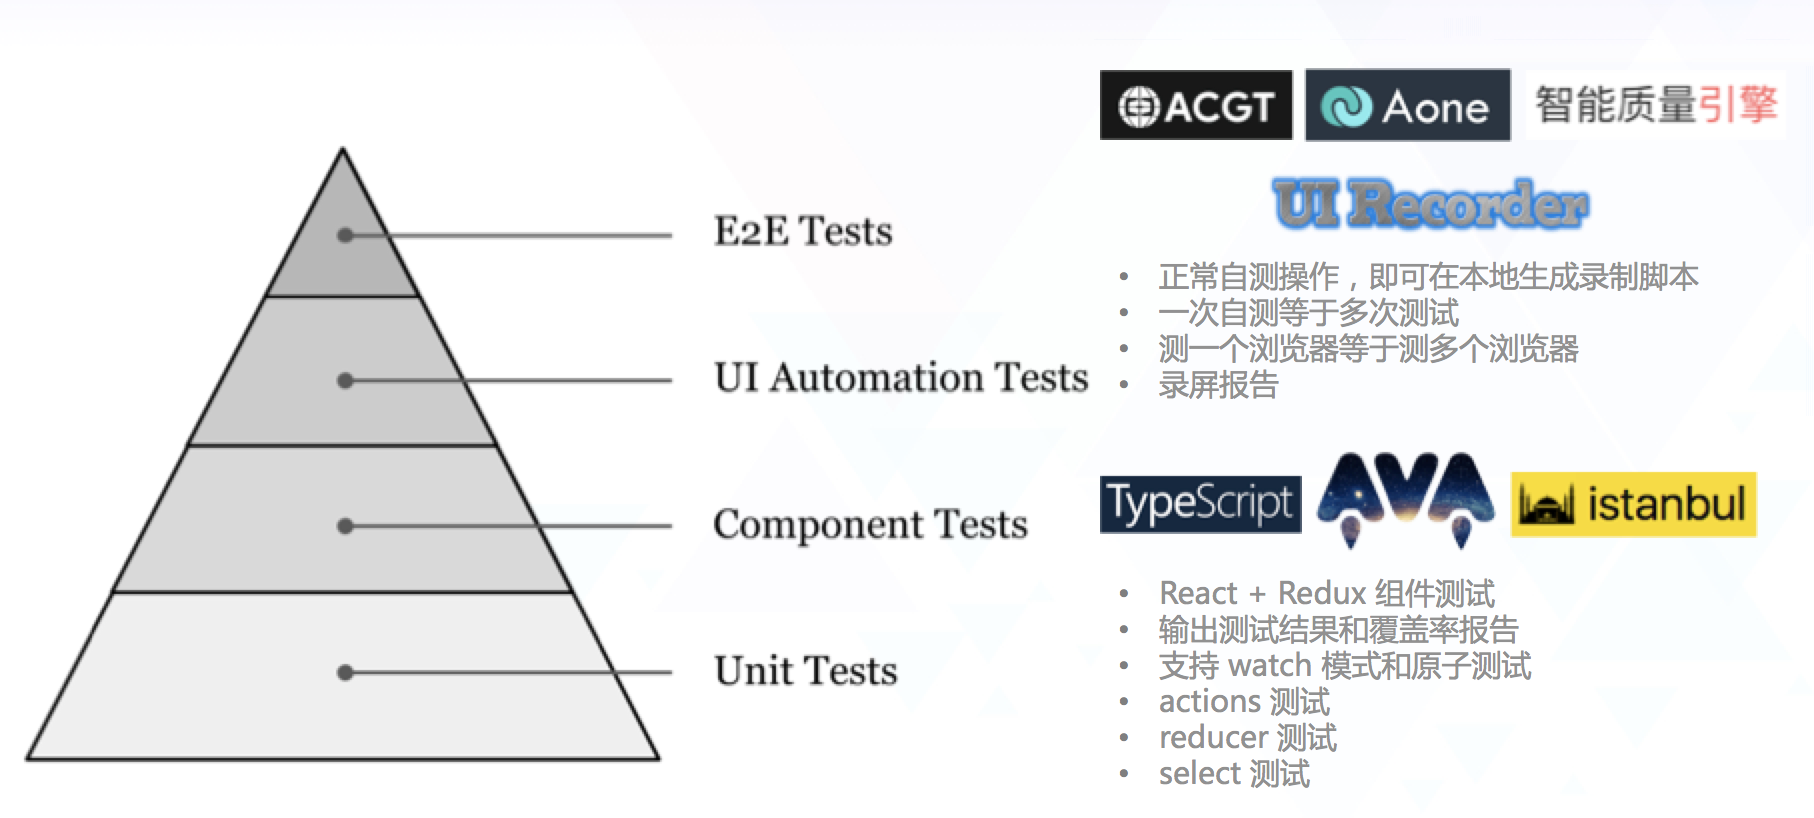
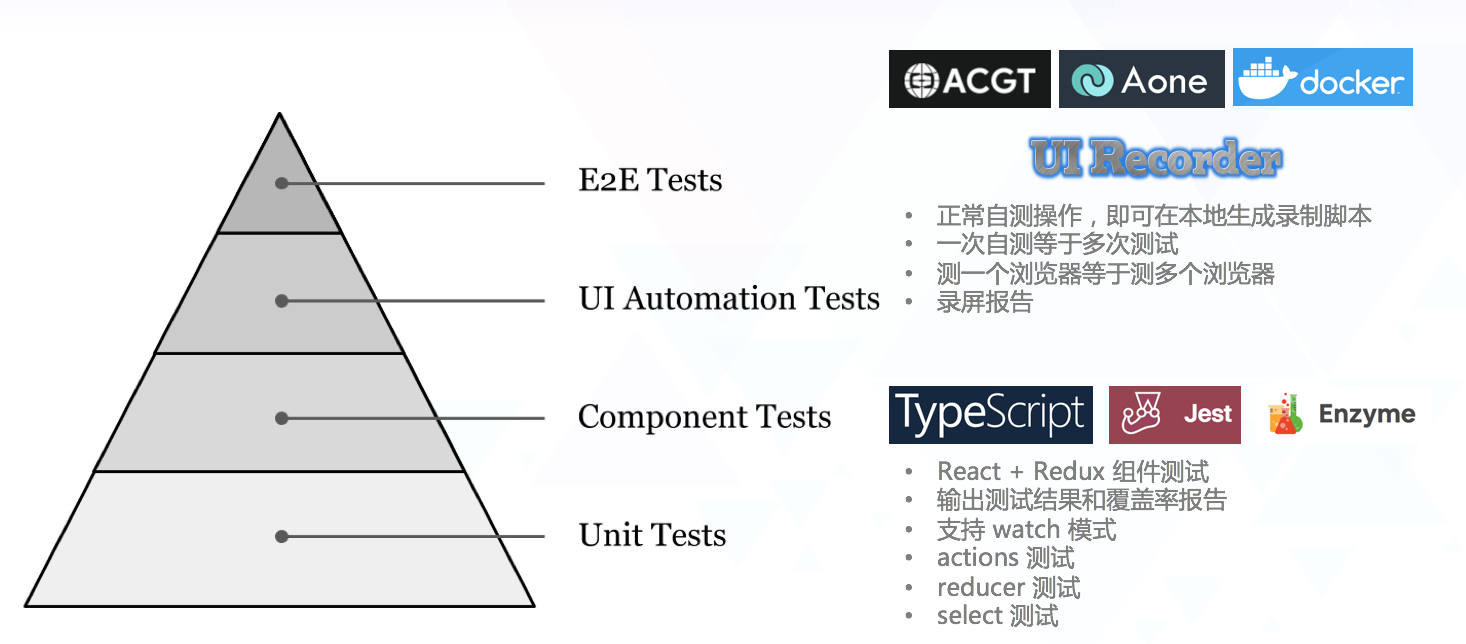
* Update assets

diff --git a/README.md b/README.md
@@ -9,9 +9,9 @@
 
 一个 React Redux 项目的模版项目。
 
-- 采用 `TypeScript + Scss/Less + React + Redux +  React Dom + React Router + React Thunk` 技术栈
-- 代码静态审查：husky + lint-staged + tslint + prettier + stylelint + imagemin-lint-staged
-- 测试包括：单元测试、覆盖率测试、接入集成测试服务、e2e 测试和 watch 模式。husky + lint-staged + jest
+- 采用 `TypeScript + Scss/Less + React + Redux +  React Dom + React Router + React Thunk` 技术栈；
+- 代码静态审查：husky + lint-staged + tslint + prettier + stylelint + imagemin-lint-staged；
+- 测试包括：单元测试、覆盖率测试、接入集成测试服务、e2e 测试和 watch 模式，husky + lint-staged + jest。
 
 ### 代码静态审查
 
@@ -68,19 +68,18 @@ npx stylelint -s scss --fix --stdin-filename ./(src|docs)/**/*.scss
 
 本项目采用的自动化测试技术方案
 
-1. React Redux 测试：typescript + Jest + enzyme(sinon、redux-mock-store) 组合
+1. React Redux 测试：typescript + Jest + enzyme 组合
 2. 集成测试： [UI Recorder](https://github.com/alibaba/uirecorder)
 
 
 ### 组件：React  + Redux
 
-支持 watch 模式
-
-1. actions 测试
-2. reducer 测试
-3. select 测试
-4. React + Redux 测试
-5. 覆盖率和输出报告
+1. 支持 watch 模式
+2. actions 测试
+3. reducer 测试
+4. select 测试
+5. React + Redux 测试
+6. 覆盖率和输出报告
 
 ### E2E 测试
 
@@ -90,13 +89,13 @@ npx stylelint -s scss --fix --stdin-filename ./(src|docs)/**/*.scss
 2. 测试脚本：测试代码的 Github 仓库
 3. 持续集成（CI）服务、用例、测试计划、任务分派和缺陷管理：Aone
 4. 全球化（G11N）自动测试报告：ACGT
-5. 业务异常报告：智能质量引擎
+5. 容器化： Docker
 
 ## 对比的一些工具
 
-- AVA： 相对于 Mocha 执行更快，测试环境隔离、支持原子测试；相对于 Jest 组合更加灵活；
-- Mocha + Chai：相对较为成熟；
-- Jest：[Create React App](https://github.com/facebookincubator/create-react-app) 、 [Microsoft/TypeScript-React-Starter](Microsoft/TypeScript-React-Starter) 和 [Ant Design](https://github.com/ant-design/ant-design-pro) 中推荐方案，内置断言、测试覆盖率工具，是个一体化方案、开箱即用。提供测试环境Dom API支持、合理的默认值、预处理代码和默认执行并行测试在内的特性。
+- Jest：[Create React App](https://github.com/facebookincubator/create-react-app) 、 [Microsoft/TypeScript-React-Starter](Microsoft/TypeScript-React-Starter) 和 [Ant Design](https://github.com/ant-design/ant-design-pro) 中推荐方案，内置断言、测试覆盖率工具，是个一体化方案、开箱即用。提供测试环境Dom API支持、合理的默认值、预处理代码和默认执行并行测试在内的特性；
+- AVA： 相对于 Mocha 执行更快，测试环境隔离、支持原子测试，相对于 Jest 组合更加灵活但最佳实践的开发工具、生态链支持稍有欠缺；
+- Mocha + Chai：相对较为成熟。
 
 
 
@@ -114,12 +113,12 @@ npx stylelint -s scss --fix --stdin-filename ./(src|docs)/**/*.scss
 | 单元    | Mock工具       | mocks, spies, and stubs                        | Jest 的 Mock Functions                                       | [testdouble.js](https://github.com/testdouble/testdouble.js), [sinon](http://sinonjs.org/), |
 | 单元    | 测试覆盖率工具 | code coverage                                  | Jest 内置的 Istanbul                                         | [Coveralls](https://coveralls.io/), [nyc](https://github.com/istanbuljs/nyc) |
 | 单元    | 模拟工具       | 模拟浏览器 dom                                 | Jest 内置的 JSDOM                                            | [JsDom](https://github.com/jsdom/jsdom)                      |
-|         |                | 与 Storybook 集成                              |                                                              |                                                              |
+| -       | -              | 与 Storybook 集成                              | -                                                            | -                                                            |
 | -       | -              | 持续集成服务                                   | [Travis](https://travis-ci.org/)，                           | [CircleCI](https://circleci.com/), [Jenkins](https://jenkins.io/) |
 | 端到端  |                | e2e                                            | [UI Recorder](https://github.com/alibaba/uirecorder) + [F2etest](https://github.com/alibaba/f2etest) + Docker | [Protractor](http://www.protractortest.org/), [Casper](http://casperjs.org/), testcafe, [DalekJS](https://github.com/dalekjs), [Nightwatch](http://nightwatchjs.org/) |
 | -       | -              | -                                              | -                                                            | -                                                            |
 | ChatOps | 自动化运维     | 查看各项指标；自动发布；发布报告等             | [Hubot](https://hubot.github.com/)                           | Lita,Err，[钉钉机器人](https://open-doc.dingtalk.com/docs/doc.htm?treeId=257&articleId=105735&docType=1) |
-| -       | 合规审查       | 自动追踪开源代码的授权许可协议；开源代码合规化 | [Fossa](https://fossa.io/)                                   |                                                              |
+| -       | 合规审查       | 自动追踪开源代码的授权许可协议；开源代码合规化 | [Fossa](https://fossa.io/)                                   | -                                                            |
 
 ## 踩过的坑
 
